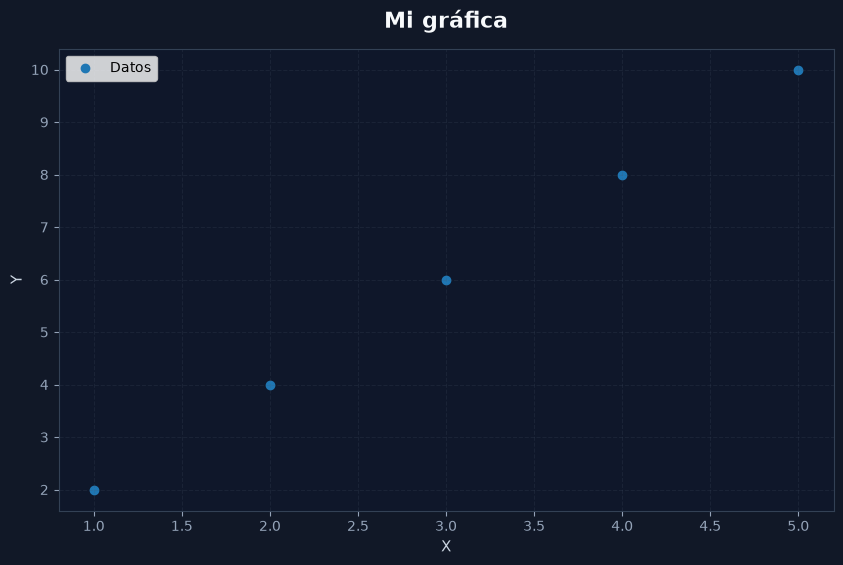
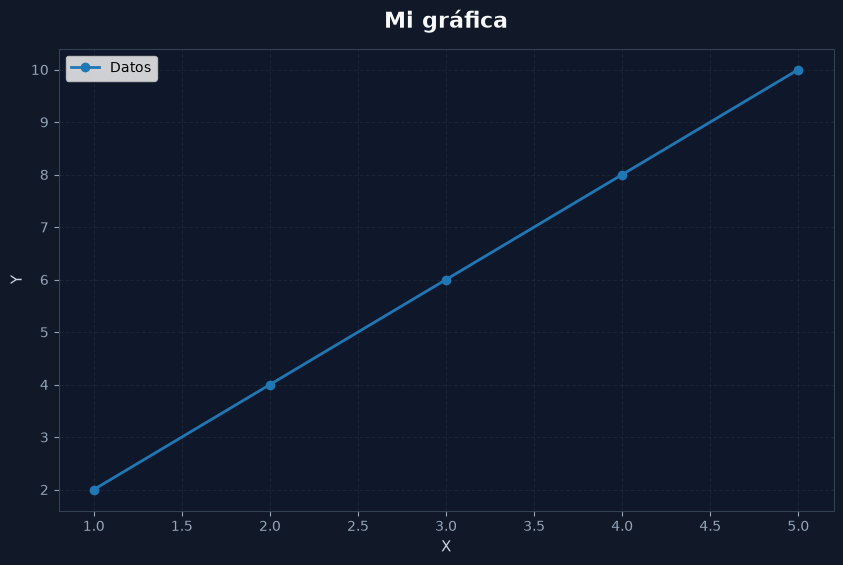
Mejoras de seguridad y dashboard

diff --git a/API/templates/index.html b/API/templates/index.html
@@ -90,6 +90,84 @@
 
     <section>
 
+        <section class="plant-dashboard">
+
+    <div class="section-title">
+        <h2>Nuclear Plant</h2>
+
+        <span id="dashboard-plant-status">
+            Loading...
+        </span>
+    </div>
+
+    <div class="plant-dashboard-card">
+
+        <div class="plant-dashboard-header">
+
+            <div>
+                <h3 id="dashboard-reactor-name">
+                    REACTOR-01
+                </h3>
+
+                <span>
+                    Reactor Core
+                </span>
+            </div>
+
+            <span
+                id="dashboard-reactor-status"
+                class="plant-status normal"
+            >
+                NORMAL
+            </span>
+
+        </div>
+
+        <div class="plant-dashboard-metrics">
+
+            <div>
+                    <span>TEMPERATURE</span>
+                    <strong id="dashboard-temperature">
+                        0 °C
+                    </strong>
+            </div>
+
+            <div>
+                <span>PRESSURE</span>
+                    <strong id="dashboard-pressure">
+                        0
+                    </strong>
+            </div>
+
+            <div>
+                <span>POWER</span>
+                    <strong id="dashboard-power">
+                        0 %
+                    </strong>
+            </div>
+
+            <div>
+                <span>WATER LEVEL</span>
+                    <strong id="dashboard-level">
+                        0 %
+                    </strong>
+            </div>
+
+            <div>
+                    <span>RADIATION</span>
+                    <strong id="dashboard-radiation">
+                        0
+                    </strong>
+           </div>
+
+            <a href="/plant" class="plant-dashboard-link">
+                Open Nuclear Plant →
+            </a>
+
+        </div>
+
+    </section>
+
         <div class="section-title">
             <h2>Infrastructure</h2>
             <span id="last-update">Waiting for data...</span>
@@ -1124,6 +1202,87 @@ async function updateSecurityEvents() {
 
 }
 
+async function updatePlantDashboard() {
+
+    try {
+
+        const response = await fetch("/api/plant");
+
+        if (!response.ok) {
+            throw new Error(`HTTP ${response.status}`);
+        }
+
+        const data = await response.json();
+
+        const reactor = data.reactor;
+
+        // Estado general
+        document.getElementById(
+            "dashboard-plant-status"
+        ).textContent = reactor.status;
+
+        // Nombre
+        document.getElementById(
+            "dashboard-reactor-name"
+        ).textContent = reactor.name;
+
+        // Estado del reactor
+        const reactorStatus =
+            document.getElementById(
+                "dashboard-reactor-status"
+            );
+
+        reactorStatus.textContent =
+            reactor.status;
+
+        reactorStatus.className =
+            "plant-status " +
+            reactor.status.toLowerCase();
+
+        // Temperatura
+        document.getElementById(
+            "dashboard-temperature"
+        ).textContent =
+            `${reactor.temperature.toFixed(1)} °C`;
+
+        // Presión
+        document.getElementById(
+            "dashboard-pressure"
+        ).textContent =
+            `${reactor.pressure.toFixed(1)} bar`;
+
+        // Potencia
+        document.getElementById(
+            "dashboard-power"
+        ).textContent =
+            `${reactor.power.toFixed(1)} %`;
+
+        // Nivel de agua
+        document.getElementById(
+            "dashboard-level"
+        ).textContent =
+            `${reactor.water_level.toFixed(1)} %`;
+
+        // Radiación
+        document.getElementById(
+            "dashboard-radiation"
+        ).textContent =
+            reactor.radiation.toFixed(2);
+
+    } catch (error) {
+
+        console.error(
+            "Plant dashboard error:",
+            error
+        );
+
+        document.getElementById(
+            "dashboard-plant-status"
+        ).textContent =
+            "CONNECTION ERROR";
+    }
+}
+
 function updatePagination(totalPages) {
 
     document.getElementById("page-number").textContent =
@@ -1180,6 +1339,8 @@ function previousPage() {
 
 updateDashboard();
 updateAlerts();
+updateSecurityEvents();
+updatePlantDashboard();
 
 
 setInterval(
@@ -1191,6 +1352,16 @@ setInterval(
     updateAlerts,
     1000
 );
+
+setInterval(
+    updateSecurityEvents,
+    1000
+)
+
+setInterval(
+    updatePlantDashboard,
+    1000
+)
 
 </script>
 

diff --git a/API/static/style.css b/API/static/style.css
@@ -1353,3 +1353,75 @@ main {
 
     transform: translateY(-1px);
 }
+
+.plant-dashboard {
+    margin-top: 24px;
+}
+
+.plant-dashboard-card {
+    padding: 20px;
+    border: 1px solid rgba(148, 163, 184, 0.16);
+    border-radius: 10px;
+    background: rgba(15, 23, 42, 0.45);
+}
+
+.plant-dashboard-header {
+    display: flex;
+    justify-content: space-between;
+    align-items: center;
+    margin-bottom: 20px;
+}
+
+.plant-dashboard-header h3 {
+    margin: 0;
+}
+
+.plant-dashboard-header span {
+    opacity: 0.65;
+    font-size: 0.8rem;
+}
+
+.plant-dashboard-metrics {
+    display: grid;
+    grid-template-columns:
+        repeat(5, 1fr);
+    gap: 12px;
+}
+
+.plant-dashboard-metrics > div {
+    padding: 14px;
+    border: 1px solid rgba(148, 163, 184, 0.12);
+    border-radius: 8px;
+}
+
+.plant-dashboard-metrics span {
+    display: block;
+    font-size: 0.7rem;
+    opacity: 0.6;
+    margin-bottom: 6px;
+}
+
+.plant-dashboard-metrics strong {
+    font-size: 1.1rem;
+}
+
+.plant-dashboard-link {
+    display: inline-block;
+    margin-top: 18px;
+    text-decoration: none;
+}
+
+@media (max-width: 900px) {
+
+    .plant-dashboard-metrics {
+        grid-template-columns:
+            repeat(2, 1fr);
+    }
+}
+
+@media (max-width: 500px) {
+
+    .plant-dashboard-metrics {
+        grid-template-columns: 1fr;
+    }
+}

diff --git a/graph_lab/routes.py b/graph_lab/routes.py
@@ -38,12 +38,7 @@ graph_bp = Blueprint(
     static_folder="static"
 )
 
-@graph_bp.route("/")
-def graph_index():
 
-    return render_template(
-        "graph_index.html"
-    )
 # =========================================================
 # AUTENTICACIÓN
 # =========================================================
@@ -82,6 +77,15 @@ def audit_graph(action, result, details=None):
         ip_address=request.remote_addr,
         user_agent=request.headers.get("User-Agent"),
         details=details
+    )
+
+
+@graph_bp.route("/", methods=["GET", "POST"])
+@graph_login_required
+def graph_index():
+
+    return render_template(
+        "graph_index.html"
     )
 
 

diff --git a/API/app.py b/API/app.py
@@ -590,7 +590,7 @@ def create_app(
     # =========================
 
     @app.route("/api/security/events")
-    @login_required()
+    @login_required(role="ADMIN")
     def security_events():
 
         return jsonify(
@@ -599,7 +599,7 @@ def create_app(
 
 
     @app.route("/api/plant")
-    @login_required()
+    @login_required(role="ADMIN")
     def plant_status():
 
         return jsonify(
@@ -607,7 +607,7 @@ def create_app(
         )
 
     @app.route("/api/plant/alerts")
-    @login_required()
+    @login_required(role="ADMIN")
     def plant_alerts():
 
         return jsonify(
